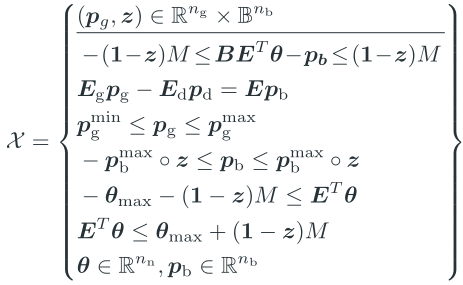
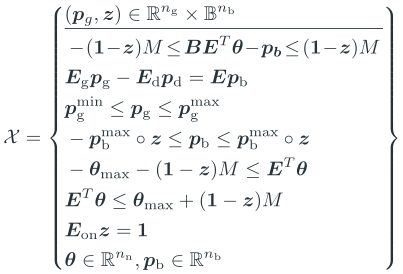
update the model

Changed region(s): [[0.0, 0.0, 1.0, 0.9927]]

diff --git a/Scots/data/README.md b/Scots/data/README.md
@@ -54,13 +54,15 @@ Notations used in the above formulation are listed in the following table (bold 
 |<img src="http://latex.codecogs.com/gif.latex?\boldsymbol{E}_{\rm{g}}">| Incidence matrix between buses and generators.
 |<img src="http://latex.codecogs.com/gif.latex?\boldsymbol{E}_{\rm{d}}">| Incidence matrix between buses and loads.
 |<img src="http://latex.codecogs.com/gif.latex?\boldsymbol{E}">| Oriented incidence matrix of the underlying graph of the transmission network with each branch assigned arbitrary and fixed orientation.
+|<img src="http://latex.codecogs.com/gif.latex?\boldsymbol{E}_{\rm{on}}">| Incidence matrix between unswitchable branches (e.g., transformer branches) in the first-stage switching and all branches.
+|<img src="http://latex.codecogs.com/gif.latex?\bar{\boldsymbol{E}}_{\rm{on}}">| Incidence matrix between unswitchable branches in the corrective switching and all branches.
 |<img src="http://latex.codecogs.com/gif.latex?\boldsymbol{B}">| Diagonal matrix formed by susceptance of each branch
 |<img src="http://latex.codecogs.com/gif.latex?f(\cdot), g(\cdot)">| The first-stage and second-stage functions.
-|<img src="http://latex.codecogs.com/gif.latex?P, \mathcal{P}">| Probability distribution of <img src="http://latex.codecogs.com/gif.latex?\boldsymbol{o}"> and its ambiguity set.
+|<img src="http://latex.codecogs.com/gif.latex?P,\mathcal{P}">| Probability distribution of <img src="http://latex.codecogs.com/gif.latex?\boldsymbol{o}"> and its ambiguity set.
 
 
 
- 
+
 
 [1] C. Coffrin, B. Knueven, J. Holzer, and M. Vuffray, “The impacts of convex piecewise linear cost formulations on AC optimal power flow,” Electric Power Systems Research, vol. 199, p. 107191, Oct. 2021.
 
